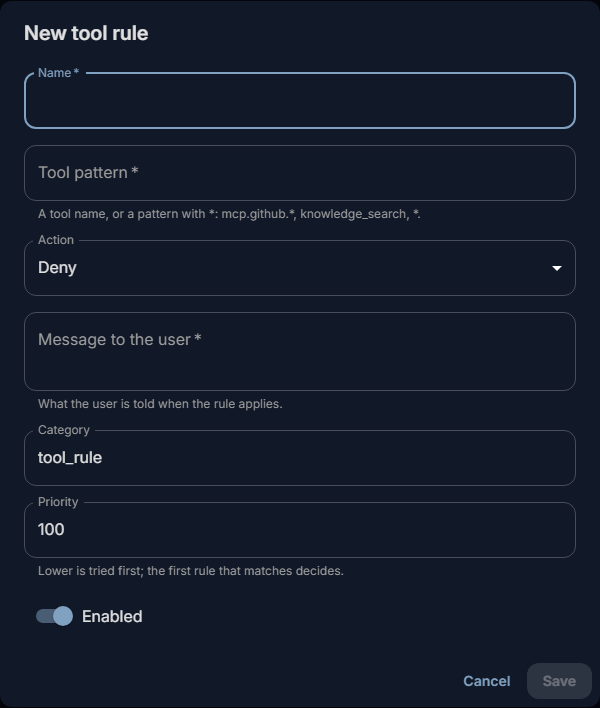
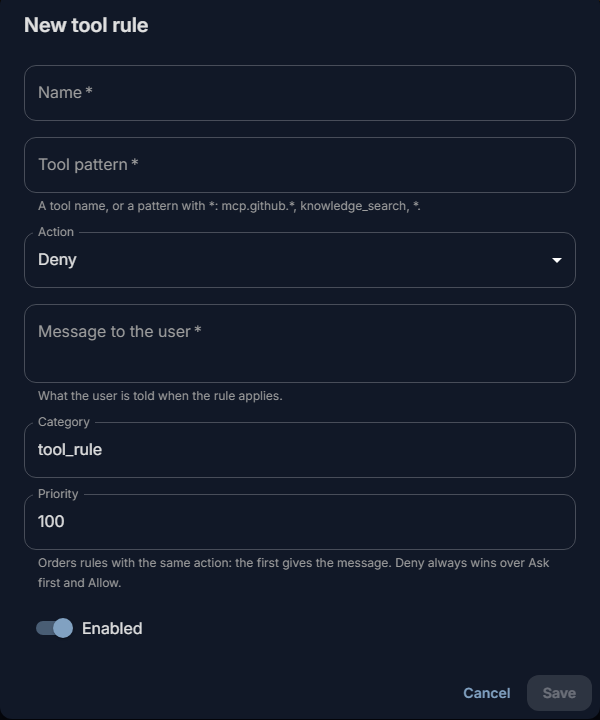
Tool rules: deny always wins, then Ask first, then allow
Of the tenant's tool rules that match a tool, the action now decides,
whatever the priority: a deny wins, then "Ask first", then allow. An
allow placed ahead of a deny or an "Ask first" no longer switches it off
(ASVS 5.0 V8.2.1). Priority only orders rules of the same action; the
first of them gives the message.

- gateway: ToolRuleCheck.match picks by action, then priority; the
  ToolRule docstring says so
- tests: the precedence table, and through the pipeline a deny and an
  "Ask first" ordered behind an allow still refuse and ask
- console: the rules tab and the rule editor say that a deny wins
  (en, de, es, fr, zh); tool classes keep their first match
- Help (EN, DE): "When several rules match", and the editor picture
  retaken

diff --git a/frontend/app/pages/admin/governance/GovernancePage.test.tsx b/frontend/app/pages/admin/governance/GovernancePage.test.tsx
@@ -82,6 +82,19 @@ describe("GovernancePage", () => {
     expect(api.toolRules.list).toHaveBeenCalledTimes(2);
   });
 
+  it("says on the rules tab and in the rule editor that a deny wins whatever the priority", async () => {
+    open("rules");
+    expect(await screen.findByText(/When several rules match, Deny wins, then Ask first, then Allow/)).toBeInTheDocument();
+    await userEvent.click(screen.getByRole("button", { name: "Add rule" }));
+    expect(within(await screen.findByRole("dialog")).getByText(/Deny always wins over Ask first and Allow/)).toBeInTheDocument();
+  });
+
+  it("keeps the first match for tool classes", async () => {
+    open("classes");
+    await userEvent.click(await screen.findByRole("button", { name: "Add class" }));
+    expect(within(await screen.findByRole("dialog")).getByText(/the first rule that matches decides/)).toBeInTheDocument();
+  });
+
   it("removes a rule after a confirmation", async () => {
     api.toolRules.remove.mockResolvedValue(undefined);
     open("rules");

diff --git a/frontend/app/components/governance/ToolRulesTable.tsx b/frontend/app/components/governance/ToolRulesTable.tsx
@@ -1,4 +1,4 @@
-/** Tool rules: deny a tool, ask before it runs, or allow it, by name; the lowest priority that matches decides. */
+/** Tool rules: deny a tool, ask before it runs, or allow it, by name; deny wins, then ask, then allow, whatever the priority. */
 import { useTranslation } from "react-i18next";
 
 import Chip, { type ChipProps } from "@mui/material/Chip";
@@ -82,7 +82,7 @@ function ToolRuleForm({ value, onChange }: RuleFormProps<ToolRuleFields>) {
         type="number"
         label={t("governance.priority")}
         value={value.priority}
-        helperText={t("governance.priority_help")}
+        helperText={t("governance.rules.priority_help")}
         slotProps={{ htmlInput: { min: 0, max: 100000 } }}
         onChange={(e) => set("priority", Number(e.target.value))}
       />

diff --git a/gateway/tests/test_governance.py b/gateway/tests/test_governance.py
@@ -317,9 +317,11 @@ async def test_a_refused_whole_answer_is_a_200_with_content_filter_the_openai_cl
 # -- tools ------------------------------------------------------------------------------------
 
 
-async def _rule(db: AsyncSession, pattern: str, action: str, message: str, *, tenant: str = "tenant-a") -> None:
+async def _rule(
+    db: AsyncSession, pattern: str, action: str, message: str, *, tenant: str = "tenant-a", priority: int = 10,
+) -> None:
     db.add(ToolRule(tenant_id=tenant, name=f"rule for {pattern}", tool_pattern=pattern, action=action,
-                    message=message, category="tool_rule", priority=10, enabled=True))
+                    message=message, category="tool_rule", priority=priority, enabled=True))
     await db.flush()
 
 
@@ -373,6 +375,81 @@ async def test_a_rule_in_another_tenant_does_not_apply(
         "model": ALIAS, "messages": [{"role": "user", "content": "When?"}],
     })
     assert r.json()["choices"][0]["message"]["content"] == "On 5 May." and len(knowledge.searches) == 1
+
+
+# -- rule precedence (38 D13, 39 F3): deny wins, then "Ask first", then allow ----------------------
+
+
+def _rules(*specs: tuple[str, str, str]) -> gov.ToolRuleCheck:
+    """Rules in priority order, each ``(pattern, action, message)``; their ids are r1, r2, ..."""
+    return gov.ToolRuleCheck([
+        gov.Rule(id=f"r{i}", name=f"rule {i}", pattern=pattern, action=action, message=message, category="tool_rule")
+        for i, (pattern, action, message) in enumerate(specs, 1)
+    ])
+
+
+@pytest.mark.anyio
+@pytest.mark.parametrize(
+    ("specs", "expected"),
+    [
+        ([("mcp.github.*", "allow", "GitHub is fine."), ("mcp.github.delete_repo", "deny", "Never delete repositories.")],
+         ("block", "r2", "Never delete repositories.")),
+        ([("mcp.github.*", "allow", "GitHub is fine."), ("mcp.github.delete_repo", "approval_required", "Ask first.")],
+         ("approval_required", "r2", "Ask first.")),
+        ([("mcp.github.*", "approval_required", "Ask for GitHub."), ("mcp.github.delete_repo", "deny", "Never.")],
+         ("block", "r2", "Never.")),
+        ([("mcp.github.delete_repo", "deny", "The first deny."), ("mcp.*", "deny", "The second deny.")],
+         ("block", "r1", "The first deny.")),
+        ([("mcp.github.*", "allow", "GitHub is fine."), ("mcp.slack.*", "deny", "No Slack.")],
+         None),
+    ],
+    ids=["deny-behind-allow", "ask-behind-allow", "deny-behind-ask", "same-action-by-priority", "only-an-allow-matches"],
+)
+async def test_a_deny_wins_then_ask_first_then_allow_whatever_the_priority(
+    specs: list[tuple[str, str, str]], expected: tuple[str, str, str] | None,
+) -> None:
+    ctx = gov.GovernanceContext(stage=gov.GovernanceStage.TOOL, tenant_id="t", user_id="u", agent_id=None,
+                                session_id=None, request_id="r", tool_id="mcp.github.delete_repo")
+    decision = await _rules(*specs).check(ctx)
+    assert (decision and (decision.outcome, decision.policy_id, decision.message)) == expected
+
+
+@pytest.mark.anyio
+async def test_a_deny_ordered_behind_an_allow_still_refuses_the_call(
+    fastapi_app: FastAPI, client: AsyncClient, db_session: AsyncSession, monkeypatch: pytest.MonkeyPatch,
+) -> None:
+    await _setup(fastapi_app, db_session)
+    await _rule(db_session, "knowledge_*", "allow", "The knowledge base is open.", priority=10)
+    await _rule(db_session, "knowledge_search", "deny", "Searching is closed this week.", priority=200)
+    knowledge = _Knowledge(monkeypatch)
+    model = _Model(monkeypatch, _call("knowledge_search", {"query": "launch"}), _say("I could not search."))
+
+    r = await client.post("/v1/chat/completions", headers=_headers(**EVENTS), json={
+        "model": ALIAS, "stream": True, "messages": [{"role": "user", "content": "When is the launch?"}],
+    })
+    assert knowledge.searches == [], "not run"
+    assert "Searching is closed this week." in model.sent[1]["messages"][-1]["content"]
+    [denied] = [e for e in _faden(r.text) if e.get("name") == "faden.tool_denied"]
+    assert denied["value"]["message"] == "Searching is closed this week."
+
+
+@pytest.mark.anyio
+async def test_an_ask_first_ordered_behind_an_allow_still_asks(
+    fastapi_app: FastAPI, client: AsyncClient, db_session: AsyncSession, monkeypatch: pytest.MonkeyPatch,
+) -> None:
+    await _setup(fastapi_app, db_session)
+    await _rule(db_session, "knowledge_*", "allow", "The knowledge base is open.", priority=10)
+    await _rule(db_session, "knowledge_search", "approval_required", "Searching needs your OK.", priority=200)
+    knowledge = _Knowledge(monkeypatch)
+    _Model(monkeypatch, _call("knowledge_search", {"query": "launch"}), _say("Done."))
+
+    ask = client.post("/v1/chat/completions", headers=_headers(**EVENTS), json={
+        "model": ALIAS, "stream": True, "messages": [{"role": "user", "content": "When is the launch?"}],
+    })
+    r, answered = await asyncio.gather(ask, _approve_when_asked(client, True))
+    assert answered == 200
+    [asked] = [e for e in _faden(r.text) if e.get("name") == "faden.approval_required"]
+    assert asked["value"]["message"] == "Searching needs your OK." and len(knowledge.searches) == 1
 
 
 async def _approve_when_asked(client: AsyncClient, approved: bool, token: str | None = None) -> int:

diff --git a/gateway/faden_gateway/services/gateway/governance.py b/gateway/faden_gateway/services/gateway/governance.py
@@ -183,8 +183,17 @@ class Rule:
     category: str
 
 
+#: Among the rules that match a tool, deny wins, then "Ask first", then allow.
+_RULE_ORDER = {"deny": 0, "approval_required": 1, "allow": 2}
+
+
 class ToolRuleCheck:
-    """The tenant's tool rules (``llm_gateway_tool_rule``); the first that matches decides."""
+    """The tenant's tool rules (``llm_gateway_tool_rule``): deny wins, then "Ask first", then allow.
+
+    The action decides, whatever the priority, so an ``allow`` never switches off a deny or an "Ask first"
+    that also matches (ASVS 5.0 V8.2.1: a tool the admin denied runs for nobody). Priority orders rules of
+    the same action: the first of them gives the message.
+    """
 
     name = "tool_rules"
     stages = frozenset({GovernanceStage.TOOL})
@@ -194,7 +203,8 @@ class ToolRuleCheck:
         self.rules = rules
 
     def match(self, tool_id: str) -> Rule | None:
-        return next((r for r in self.rules if fnmatch.fnmatchcase(tool_id, r.pattern)), None)
+        matching = (r for r in self.rules if fnmatch.fnmatchcase(tool_id, r.pattern))
+        return min(matching, key=lambda r: _RULE_ORDER.get(r.action, len(_RULE_ORDER)), default=None)
 
     async def check(self, ctx: GovernanceContext) -> GovernanceDecision | None:
         rule = self.match(ctx.tool_id or "")

diff --git a/backend/faden_backend/web/api/admin/governance/views.py b/backend/faden_backend/web/api/admin/governance/views.py
@@ -40,7 +40,8 @@ class ToolRuleIn(BaseModel):
     #: What the user is told.
     message: str = Field(min_length=1, max_length=2000)
     category: str = Field(default="tool_rule", max_length=64)
-    #: The lowest that matches decides; ``allow`` at a lower number makes an exception.
+    #: Orders rules of the same action (the first gives the message); a matching deny wins, then
+    #: "Ask first", then allow, whatever the priority, so an ``allow`` makes no exception.
     priority: int = Field(default=100, ge=0, le=100_000)
     enabled: bool = True
 

diff --git a/gateway/faden_gateway/db/models/gateway.py b/gateway/faden_gateway/db/models/gateway.py
@@ -1134,7 +1134,8 @@ class ToolRule(Base):
     """A tenant's rule for tools the gateway runs or a client offers.
 
     ``message`` is what the user is told; ``name`` is for admins and
-    auditors. The lowest ``priority`` that matches decides.
+    auditors. Of the rules that match, a deny wins, then ``approval_required``,
+    then ``allow``, whatever the ``priority``; it orders rules of one action.
     """
 
     __tablename__ = "llm_gateway_tool_rule"

diff --git a/docs/help/pages-de/administer/policies.md b/docs/help/pages-de/administer/policies.md
@@ -199,11 +199,18 @@ Die Erkennungsrate ist der Anteil der Prüfungen mit einem Fund, nicht der Antei
    der Office-Agenten: Die App fragt jedes Mal, egal was der Benutzer vorher erlaubt hat, und einer App, die nicht
    fragen kann, wird das Tool nicht angeboten.
 4. Schreiben Sie die **Nachricht an den Nutzer**: Das wird Benutzern mitgeteilt, wenn die Regel greift.
-5. Legen Sie die **Priorität** fest. Niedrigere Werte werden zuerst geprüft, und die erste passende Regel
-   entscheidet. So kann eine Regel mit einer niedrigeren Zahl eine Ausnahme von einer allgemeineren Regel bilden.
+5. Legen Sie die **Priorität** fest. Sie ordnet Regeln mit derselben Aktion: Passen mehrere davon, liefert die mit
+   der niedrigsten Zahl die Nachricht.
 6. Speichern Sie die Regel. Regeln greifen sofort.
 
 Ohne Regeln laufen Tools so, wie es der Tool-Modus vorgibt.
+
+### Wenn mehrere Regeln passen {#when-several-rules-match}
+
+**Sperren** gewinnt, dann **Erst nachfragen**, dann **Erlauben**, unabhängig von der Priorität. Eine Regel
+**Erlauben** kann deshalb keine Ausnahme von einer Regel **Sperren** oder **Erst nachfragen** bilden, und für sich
+allein ändert sie nichts: Ob das Tool nachfragt, entscheidet weiter der Tool-Modus. Um einige Tools von einer Regel
+**Sperren** auszunehmen, fassen Sie deren Muster enger: Sperren Sie `mcp.github.delete_*` statt `mcp.github.*`.
 
 ### Tool-Klassen und Tool-Modi {#tool-classes-and-tool-modes}
 

diff --git a/docs/help/pages/administer/policies.md b/docs/help/pages/administer/policies.md
@@ -183,11 +183,18 @@ found something, not a measurement of how much personal data was successfully re
    covers the tools an agent's app runs itself, such as the browser and Office agents' tools: the app asks every
    time, whatever the person allowed before, and an app that cannot ask is not offered the tool.
 4. Write the **Message to the user**: what people are told when the rule applies.
-5. Set the **Priority**. Lower is tried first, and the first rule that matches decides, so a rule with a
-   lower number can make an exception to a broader one.
+5. Set the **Priority**. It orders rules with the same action: when several of them match, the one with the
+   lowest number gives the message.
 6. Save it. Rules apply at once.
 
 Without rules, tools run as the tool mode says.
+
+### When several rules match {#when-several-rules-match}
+
+**Deny** wins, then **Ask first**, then **Allow**, whatever their priority. So an **Allow** rule cannot make an
+exception to a **Deny** or **Ask first** rule, and on its own it changes nothing: the tool mode still decides
+whether the tool asks. To leave some tools out of a **Deny** rule, make its pattern narrower: deny
+`mcp.github.delete_*` rather than `mcp.github.*`.
 
 ### Tool classes and tool modes
 
